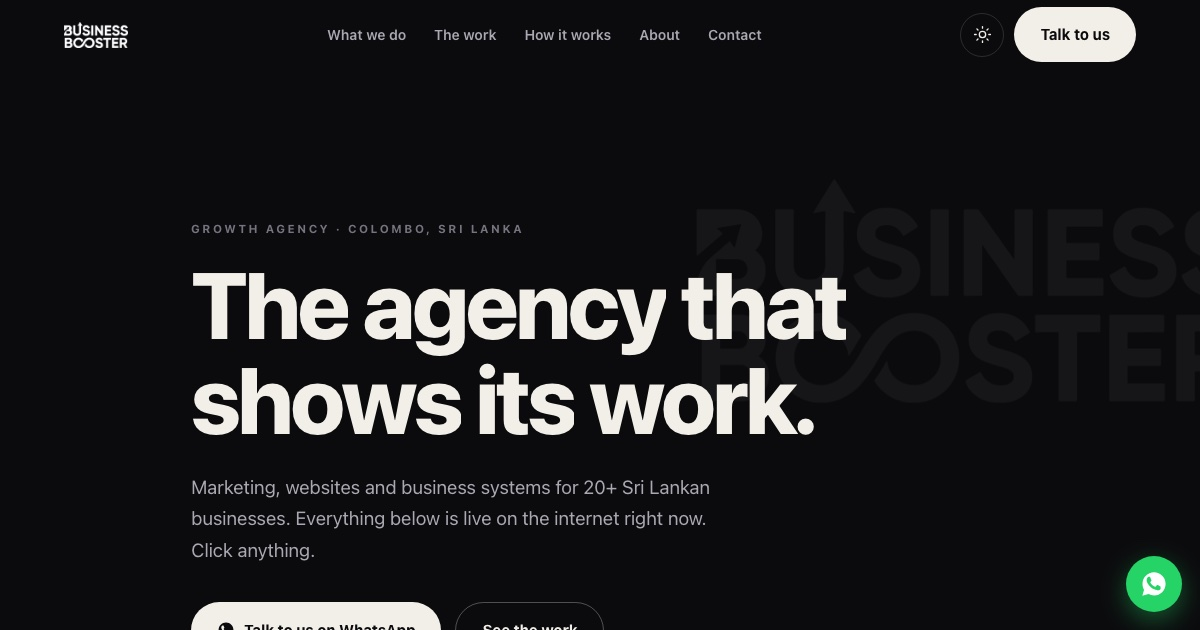
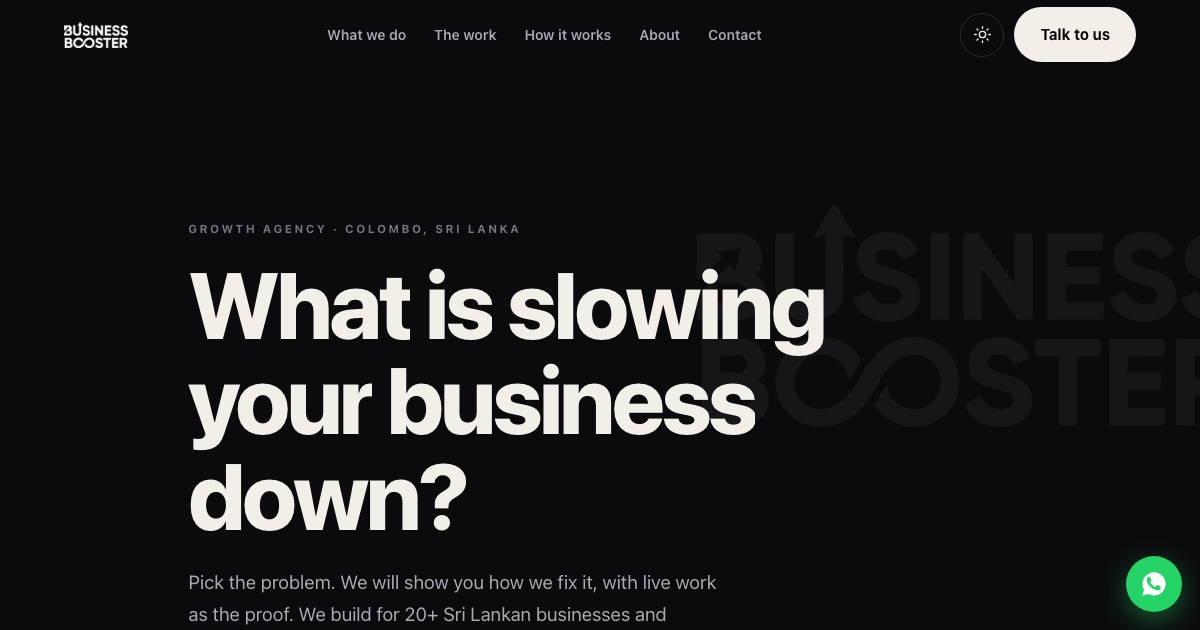
Hero becomes the problem picker, nav gets travelling underline and reading progress

diff --git a/index.html b/index.html
@@ -104,9 +104,18 @@ html.cap .scrollcue{display:none}
 .nav .wrap{display:flex;align-items:center;justify-content:space-between;height:100%;gap:16px}
 .nav .brand{display:flex;align-items:center;flex:none}
 .nav .brand img{height:26px;width:auto;flex:none;filter:var(--logo-filter)}
-.nav-links{display:flex;gap:28px;align-items:center}
+.nav-links{display:flex;gap:28px;align-items:center;position:relative}
 .nav-links a{font-weight:600;font-size:14px;color:var(--muted);transition:color .18s}
 .nav-links a:hover{color:var(--ink)}
+.nav-links a.now{color:var(--ink)}
+/* one underline that travels between links as you scroll: a single object moving,
+   not five links swapping styles */
+.nav-ind{position:absolute;bottom:-6px;left:0;height:2px;background:var(--ink);width:0;
+ transition:transform .4s var(--ease),width .4s var(--ease);opacity:0}
+.nav-ind.on{opacity:1}
+/* reading progress along the nav's bottom edge */
+.nav-prog{position:absolute;left:0;bottom:-1px;height:2px;width:100%;background:var(--ink);
+ transform:scaleX(0);transform-origin:left;opacity:.85}
 .nav-tools{display:flex;align-items:center;gap:10px}
 .tbtn{width:44px;height:44px;display:grid;place-items:center;border-radius:999px;border:1px solid var(--line);
  transition:border-color .2s,transform .2s var(--ease)}
@@ -196,9 +205,7 @@ html.js:not(.rm) .scrollcue::after{content:"";display:block;width:1px;height:32p
 .step p{color:var(--muted);margin-top:6px;max-width:58ch}
 @media(max-width:600px){.step{grid-template-columns:44px 1fr;gap:12px;padding:26px 0}}
 
-/* ═══ QUIZ ═══ */
-.quiz{border:1px solid var(--line);border-radius:18px;padding:clamp(24px,4vw,40px);background:var(--surface)}
-.quiz .qlabel{font-size:14px;color:var(--muted)}
+/* ═══ PROBLEM PICKER (hero) ═══ */
 .chips{display:flex;gap:10px;flex-wrap:wrap;margin-top:16px}
 .chip{border:1px solid var(--line-2);border-radius:999px;padding:12px 18px;font-size:14.5px;font-weight:600;
  min-height:46px;transition:all .2s var(--ease)}
@@ -206,6 +213,11 @@ html.js:not(.rm) .scrollcue::after{content:"";display:block;width:1px;height:32p
 .chip.on{background:var(--btn-bg);color:var(--btn-ink);border-color:var(--btn-bg)}
 .qresult{margin-top:22px;display:none;border-top:1px solid var(--line);padding-top:20px;line-height:1.75}
 .qresult .btn{margin-top:16px}
+.hero-chips{margin-top:28px;position:relative;z-index:2}
+.hero-result{max-width:56ch;color:var(--muted);position:relative;z-index:2}
+.hero-result b{color:var(--ink)}
+.hero-result .acts{display:flex;gap:12px;flex-wrap:wrap;margin-top:16px}
+.hero-result .acts .btn{margin-top:0}
 
 /* ═══ ABOUT ═══ */
 .about-grid{display:grid;grid-template-columns:1.1fr .9fr;gap:clamp(28px,5vw,72px);align-items:start}
@@ -260,11 +272,12 @@ footer .bar{margin-top:44px;padding-top:22px;border-top:1px solid var(--line);di
  <div class="wrap">
   <a href="#top" class="brand" aria-label="Business Booster home"><img src="assets/logo.png" alt="Business Booster" width="600" height="243"></a>
   <nav class="nav-links" aria-label="Main">
-   <a href="#services">What we do</a>
-   <a href="#work">The work</a>
-   <a href="#process">How it works</a>
-   <a href="#about">About</a>
-   <a href="#contact">Contact</a>
+   <a href="#services" data-spy="services">What we do</a>
+   <a href="#work" data-spy="work">The work</a>
+   <a href="#process" data-spy="process">How it works</a>
+   <a href="#about" data-spy="about">About</a>
+   <a href="#contact" data-spy="contact">Contact</a>
+   <span class="nav-ind" id="navInd" aria-hidden="true"></span>
   </nav>
   <div class="nav-tools">
    <button class="tbtn" id="themeBtn" aria-label="Switch between dark and light theme">
@@ -277,6 +290,7 @@ footer .bar{margin-top:44px;padding-top:22px;border-top:1px solid var(--line);di
    </button>
   </div>
  </div>
+ <span class="nav-prog" id="navProg" aria-hidden="true"></span>
 </header>
 
 <div class="scrim" id="scrim"></div>
@@ -304,14 +318,21 @@ footer .bar{margin-top:44px;padding-top:22px;border-top:1px solid var(--line);di
  <div class="wrap">
   <p class="eyebrow">Growth agency &middot; Colombo, Sri Lanka</p>
   <h1 style="margin-top:18px">
-   <span class="w"><span class="wi" style="--i:0">The</span></span>
-   <span class="w"><span class="wi" style="--i:1">agency</span></span>
-   <span class="w"><span class="wi" style="--i:2">that</span></span>
-   <span class="w"><span class="wi" style="--i:3">shows</span></span>
-   <span class="w"><span class="wi" style="--i:4">its</span></span>
-   <span class="w"><span class="wi" style="--i:5">work.</span></span>
+   <span class="w"><span class="wi" style="--i:0">What</span></span>
+   <span class="w"><span class="wi" style="--i:1">is</span></span>
+   <span class="w"><span class="wi" style="--i:2">slowing</span></span>
+   <span class="w"><span class="wi" style="--i:3">your</span></span>
+   <span class="w"><span class="wi" style="--i:4">business</span></span>
+   <span class="w"><span class="wi" style="--i:5">down?</span></span>
   </h1>
-  <p class="sub">Marketing, websites and business systems for 20+ Sri Lankan businesses. Everything below is live on the internet right now. Click anything.</p>
+  <p class="sub">Pick the problem. We will show you how we fix it, with live work as the proof. We build for 20+ Sri Lankan businesses and everything on this page is real.</p>
+  <div class="chips hero-chips" id="probChips">
+   <button class="chip" data-prob="sales">We need more sales</button>
+   <button class="chip" data-prob="invisible">Nobody finds us online</button>
+   <button class="chip" data-prob="website">The website lets us down</button>
+   <button class="chip" data-prob="admin">Too much manual admin</button>
+  </div>
+  <div class="qresult hero-result" id="probResult" aria-live="polite"></div>
   <div class="ctas">
    <a class="btn btn-solid" href="https://wa.me/94767412531?text=Hi%20Business%20Booster%2C%20I%20saw%20your%20site%20and%20I%20want%20to%20talk%20about%20growing%20my%20business." target="_blank" rel="noopener">
     <svg viewBox="0 0 24 24" fill="currentColor"><path d="M12.04 2c-5.46 0-9.9 4.44-9.9 9.9 0 1.75.46 3.45 1.32 4.95L2 22l5.3-1.38a9.9 9.9 0 0 0 4.74 1.2c5.46 0 9.9-4.43 9.9-9.9 0-5.45-4.44-9.9-9.9-9.9zm5.8 14.02c-.24.68-1.4 1.3-1.94 1.34-.5.05-1.13.24-3.7-.78-3.12-1.23-5.1-4.4-5.26-4.6-.15-.2-1.25-1.66-1.25-3.17 0-1.5.79-2.24 1.07-2.55.28-.3.6-.38.8-.38.2 0 .4 0 .58.01.19.01.44-.07.68.53.24.6.83 2.08.9 2.23.07.15.12.32.02.52-.1.2-.15.32-.3.5-.15.17-.32.39-.45.52-.15.15-.3.31-.13.6.17.3.76 1.25 1.63 2.02 1.12 1 2.07 1.31 2.37 1.46.3.15.47.13.64-.08.17-.2.74-.86.94-1.16.2-.3.4-.25.67-.15.27.1 1.7.8 2 .95.29.15.48.22.55.34.07.12.07.7-.17 1.38z"/></svg>
@@ -331,21 +352,21 @@ footer .bar{margin-top:44px;padding-top:22px;border-top:1px solid var(--line);di
    <p>Most agencies sell activity. We sell the three things that actually move a business, and we would rather do fewer things properly.</p>
   </div>
   <div class="stack">
-   <div class="srow" data-srow>
+   <div class="srow" data-srow id="arm-attract">
     <div class="word"><span class="big">Attract.</span><span class="rule" data-rule></span></div>
     <div class="copy" data-copy>
      <p>Strategy-first marketing on a monthly retainer. Content built to sell and paid reach with tracking switched on. You get the same seven numbers reported every month, compared against the month before, whether they flatter us or not.</p>
      <a class="go" href="https://wa.me/94767412531?text=Hi%20Business%20Booster%2C%20I%20want%20to%20ask%20about%20your%20marketing%20retainers." target="_blank" rel="noopener">Ask about marketing<svg viewBox="0 0 24 24" fill="none" stroke="currentColor" stroke-width="2" stroke-linecap="round" stroke-linejoin="round"><path d="M5 12h14m0 0-6-6m6 6-6 6"/></svg></a>
     </div>
    </div>
-   <div class="srow" data-srow>
+   <div class="srow" data-srow id="arm-convert">
     <div class="word"><span class="big">Convert.</span><span class="rule" data-rule></span></div>
     <div class="copy" data-copy>
      <p>Websites designed and built in-house, with SEO baked in from day one. Fast, honest pages that turn a visitor into a WhatsApp conversation. The page you are reading is our own work, judge it as a sample.</p>
      <a class="go" href="https://wa.me/94767412531?text=Hi%20Business%20Booster%2C%20I%20want%20to%20ask%20about%20a%20website." target="_blank" rel="noopener">Ask about a website<svg viewBox="0 0 24 24" fill="none" stroke="currentColor" stroke-width="2" stroke-linecap="round" stroke-linejoin="round"><path d="M5 12h14m0 0-6-6m6 6-6 6"/></svg></a>
     </div>
    </div>
-   <div class="srow" data-srow>
+   <div class="srow" data-srow id="arm-automate">
     <div class="word"><span class="big">Automate.</span><span class="rule" data-rule></span></div>
     <div class="copy" data-copy>
      <p>Business systems we call digital staff. They track the fees, chase the follow-ups and prepare the reports a growing business forgets. Your people stay in charge. The system does the remembering.</p>
@@ -419,25 +440,6 @@ footer .bar{margin-top:44px;padding-top:22px;border-top:1px solid var(--line);di
   </div>
   <div style="margin-top:36px" data-rv>
    <a class="btn btn-solid" href="https://wa.me/94767412531?text=Hi%20Business%20Booster%2C%20let%27s%20start%20with%20step%20one.%20Here%27s%20my%20business%3A%20" target="_blank" rel="noopener">Start step one</a>
-  </div>
- </div>
-</section>
-
-<section class="section" id="quiz" style="padding-top:0">
- <div class="wrap">
-  <div class="sect-head" data-rv>
-   <p class="eyebrow">A thirty second diagnosis</p>
-   <h2>Where is your growth leaking?</h2>
-  </div>
-  <div class="quiz" data-rv>
-   <p class="qlabel">Tap the one that hurts the most right now:</p>
-   <div class="chips" id="chips">
-    <button class="chip" data-leak="views">People see us, nobody buys</button>
-    <button class="chip" data-leak="invisible">Nobody sees us at all</button>
-    <button class="chip" data-leak="leads">Enquiries come, then vanish</button>
-    <button class="chip" data-leak="adhoc">We post, but there is no plan</button>
-   </div>
-   <div class="qresult" id="qresult" aria-live="polite"></div>
   </div>
  </div>
 </section>
@@ -550,9 +552,29 @@ var nav=document.getElementById('nav');
 var rv=[].slice.call(document.querySelectorAll('[data-rv]'));
 var rows=[].slice.call(document.querySelectorAll('[data-srow]'));
 var mark=document.getElementById('heroMark');
+var navInd=document.getElementById('navInd'),navProg=document.getElementById('navProg');
+var spyLinks=[].slice.call(document.querySelectorAll('[data-spy]'));
 function frame(){
  nav.classList.toggle('stick',window.scrollY>8);
  var vh=window.innerHeight;
+ /* reading progress along the nav */
+ var doc=document.documentElement;
+ var total=doc.scrollHeight-vh;
+ navProg.style.transform='scaleX('+(total>0?Math.min(1,window.scrollY/total):0).toFixed(4)+')';
+ /* scrollspy: the one underline travels to the section you are in */
+ var current=null;
+ spyLinks.forEach(function(a){
+  var sec=document.getElementById(a.dataset.spy);
+  if(sec&&sec.getBoundingClientRect().top<vh*.4)current=a;
+ });
+ spyLinks.forEach(function(a){a.classList.toggle('now',a===current)});
+ if(current){
+  navInd.classList.add('on');
+  navInd.style.width=current.offsetWidth+'px';
+  navInd.style.transform='translateX('+current.offsetLeft+'px)';
+ }else{
+  navInd.classList.remove('on');
+ }
  rv.forEach(function(el){
   if(el.getBoundingClientRect().top<vh-70)el.classList.add('in');
  });
@@ -613,25 +635,25 @@ document.addEventListener('keydown',function(e){
  else if(!e.shiftKey&&document.activeElement===last){first.focus();e.preventDefault();}
 });
 
-/* leak finder: deterministic diagnosis, tailored WhatsApp handoff */
-var LEAKS={
- views:{d:'<b>Attention without a next step.</b> People are looking at a page or a profile that gives them nothing to do. The fix is usually a sharper offer and a faster route into a conversation, and it is quicker than most owners expect.',
-  m:'Hi Business Booster. People see us but sales do not follow. Can we talk?'},
- invisible:{d:'<b>A visibility problem, and the cheapest kind to fix.</b> In most Sri Lankan categories the bar for consistent, planned content is low. Show up properly for ninety days and you start to look like the market leader.',
-  m:'Hi Business Booster. Nobody sees us online. Can we talk?'},
- leads:{d:'<b>A follow-up gap.</b> Most enquiries go cold in hours because a busy human forgot, not because the customer changed their mind. This is exactly the job we give digital staff: chase what the team forgets and report what happened.',
-  m:'Hi Business Booster. Our enquiries keep vanishing. Can we talk?'},
- adhoc:{d:'<b>Decoration, not marketing.</b> A real plan means pillars, a calendar and content with a job to do. Strategy comes first. The posting follows it, never the other way round.',
-  m:'Hi Business Booster. We post but there is no plan behind it. Can we talk?'}
+/* problem picker: deterministic diagnosis, routed to the right arm plus WhatsApp */
+var PROBLEMS={
+ sales:{d:'<b>More sales starts with attention that converts.</b> Strategy-first content, tracked paid reach and an honest monthly report of the same seven numbers. That is our Attract retainer, and it is built to be judged on enquiries.',
+  m:'Hi Business Booster. We need more sales. Can we talk?',a:'#arm-attract',al:'See how Attract works'},
+ invisible:{d:'<b>A visibility problem, and the cheapest kind to fix.</b> We bake SEO into every site from day one and run the content that gets you found. Show up properly for ninety days and the market starts treating you like the leader.',
+  m:'Hi Business Booster. Nobody finds us online. Can we talk?',a:'#arm-convert',al:'See how Convert works'},
+ website:{d:'<b>A slow or dated site quietly drops enquiries every day.</b> We design and build fast, honest pages in-house that turn a visitor into a WhatsApp conversation. You are reading a sample of our work right now.',
+  m:'Hi Business Booster. Our website is letting us down. Can we talk?',a:'#work',al:'See the live sites'},
+ admin:{d:'<b>Manual admin forgets things and does not scale.</b> We build digital staff: systems that chase the follow-ups and remember what a busy team cannot. Your people stay in charge.',
+  m:'Hi Business Booster. Too much manual admin is eating our week. Can we talk?',a:'#arm-automate',al:'See how Automate works'}
 };
-var chips=document.getElementById('chips'),qres=document.getElementById('qresult');
+var chips=document.getElementById('probChips'),qres=document.getElementById('probResult');
 chips.addEventListener('click',function(e){
  var ch=e.target.closest('.chip');if(!ch)return;
  [].slice.call(chips.children).forEach(function(x){x.classList.remove('on')});
  ch.classList.add('on');
- var L=LEAKS[ch.dataset.leak];
+ var P=PROBLEMS[ch.dataset.prob];
  qres.style.display='block';
- qres.innerHTML=L.d+'<br><a class="btn btn-solid" target="_blank" rel="noopener" href="https://wa.me/94767412531?text='+encodeURIComponent(L.m)+'">Fix this leak on WhatsApp</a>';
+ qres.innerHTML=P.d+'<div class="acts"><a class="btn btn-solid" target="_blank" rel="noopener" href="https://wa.me/94767412531?text='+encodeURIComponent(P.m)+'">Fix this on WhatsApp</a><a class="btn btn-line" href="'+P.a+'">'+P.al+'</a></div>';
 });
 })();
 </script>
